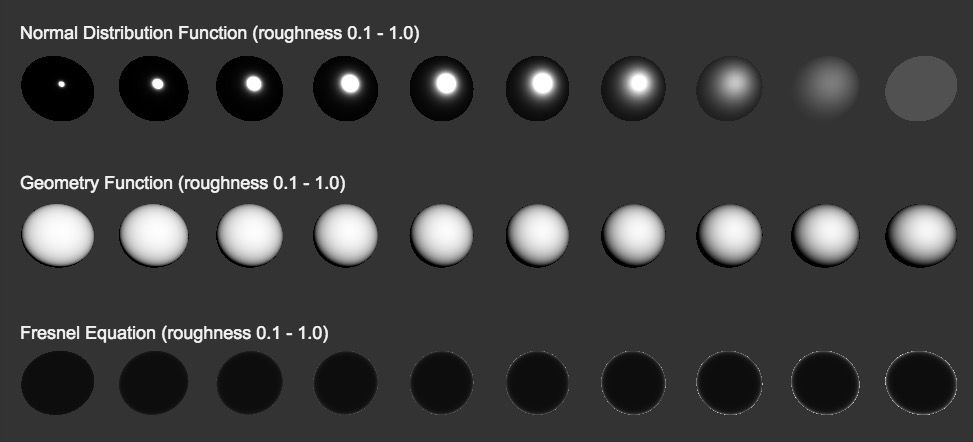
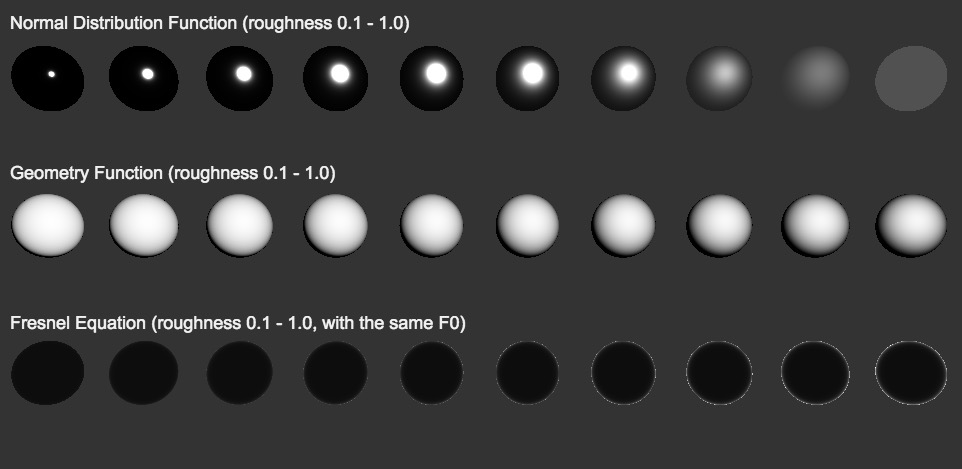
basic shading

diff --git a/cook_torrance/show.html b/cook_torrance/show.html
@@ -87,7 +87,7 @@
                 text3.horizontalAlignment = BABYLON.GUI.Control.HORIZONTAL_ALIGNMENT_LEFT;
                 text3.verticalAlignment = BABYLON.GUI.Control.VERTICAL_ALIGNMENT_TOP;
                 text3.textHorizontalAlignment = BABYLON.GUI.Control.HORIZONTAL_ALIGNMENT_LEFT;
-                text3.text = "Fresnel Equation (roughness 0.1 - 1.0)";
+                text3.text = "Fresnel Equation (roughness 0.1 - 1.0, with the same F0)";
                 text3.color = "rgb(241, 101, 211)";
                 text3.fontSize = 18;
 
